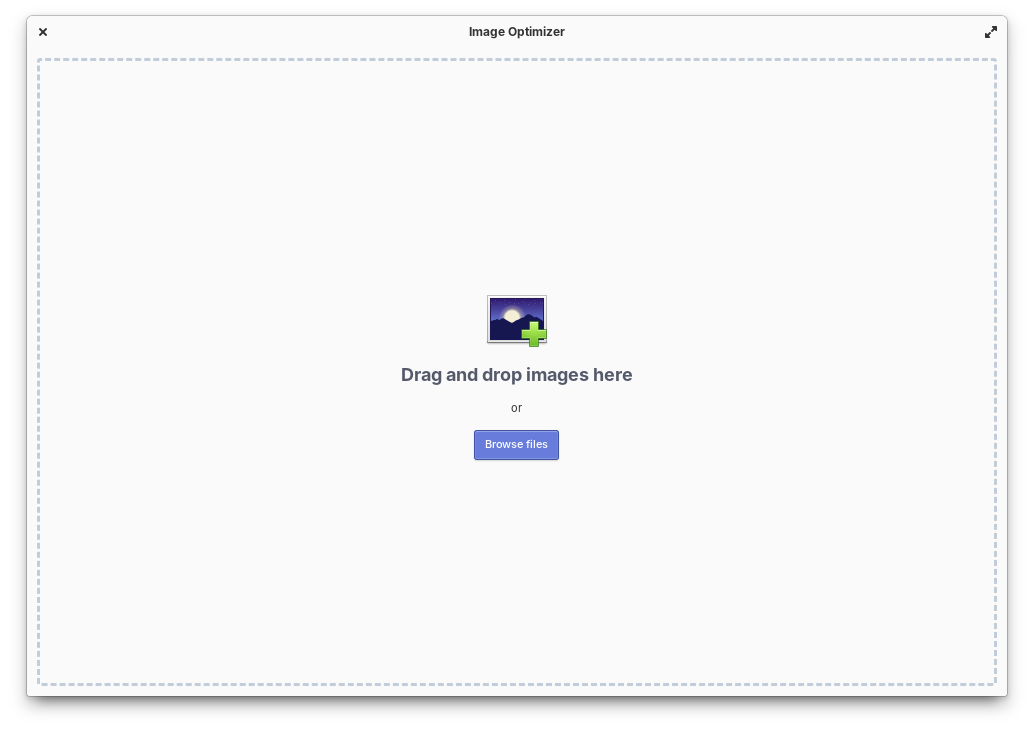
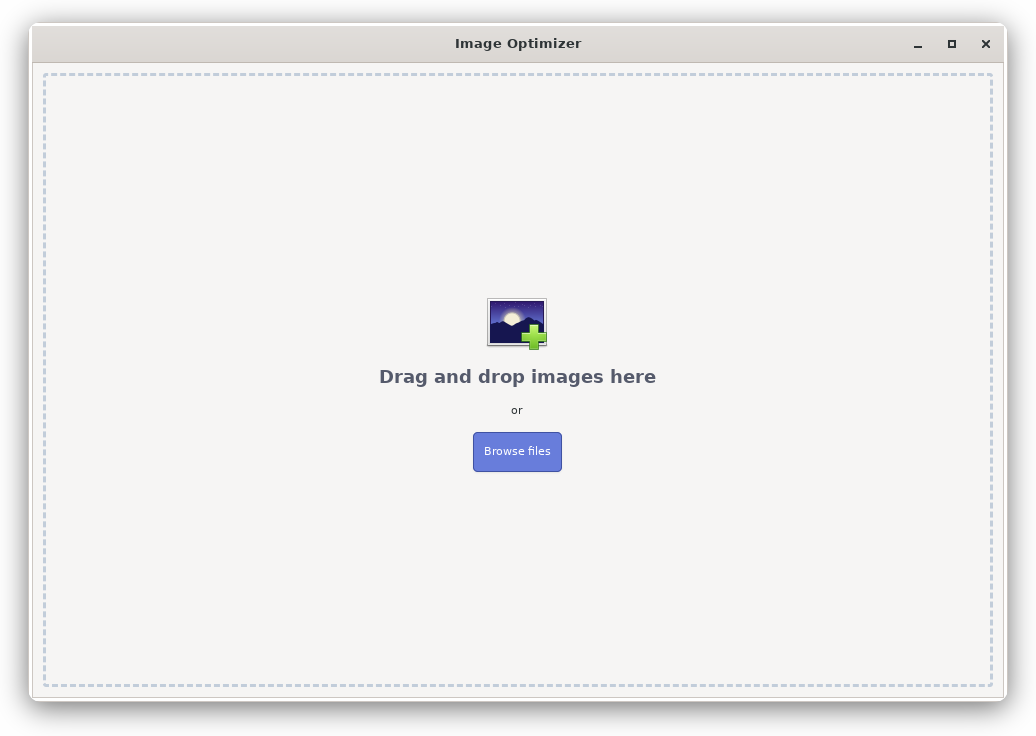
Improved app listings for flathub / snapcraft

Changed region(s): [[0.0, 0.0, 0.9903, 1.0], [0.3714, 0.4062, 0.6499, 0.5312], [0.4333, 0.5625, 0.5571, 0.6562]]

diff --git a/README.md b/README.md
@@ -2,9 +2,33 @@
 
 [![Build Status](https://github.com/GijsGoudzwaard/Image-Optimizer/actions/workflows/pipelines.yml/badge.svg?branch=master)](https://github.com/GijsGoudzwaard/Image-Optimizer/actions/workflows/pipelines.yml) [![Support on Ko-fi](https://img.shields.io/badge/Ko--fi-Support%20this%20project-FF5E5B?logo=ko-fi&logoColor=white)](https://ko-fi.com/imageoptimizer)
 
-Simple lossless image optimizer built with Vala and GTK.
+Shrink PNG and JPEG files losslessly. The pixels come out identical, only the
+file gets smaller. Runs on any Linux distribution through Flathub or the Snap
+Store.
 
 ![Screenshot](data/screenshots/welcome-screen.png)
+
+## Install
+
+**Flathub**, for any distribution:
+
+    flatpak install flathub com.github.gijsgoudzwaard.image-optimizer
+
+<a href="https://flathub.org/apps/details/com.github.gijsgoudzwaard.image-optimizer" target="_blank"><img src="https://flathub.org/assets/badges/flathub-badge-i-en.svg" width="160px" alt="Get it from Flathub"></a>
+
+**Snap Store**, for Ubuntu and anywhere else snaps run:
+
+    sudo snap install image-optimizer
+
+[![Get it from the Snap Store](https://snapcraft.io/static/images/badges/en/snap-store-black.svg)](https://snapcraft.io/image-optimizer)
+
+**elementary OS AppCenter**. Note that this channel may lag behind the releases
+above.
+
+[![Get it on AppCenter](https://appcenter.elementary.io/badge.svg)](https://appcenter.elementary.io/com.github.gijsgoudzwaard.image-optimizer)
+
+Both the Flathub and Snap builds are published for amd64 and arm64, and both
+bundle the two optimizers, so there is nothing else to install.
 
 ## Supported formats
 
@@ -39,27 +63,6 @@ Two details worth knowing:
   wide-gamut image render as sRGB afterwards.
 - Modification times are preserved, so optimizing a folder does not reshuffle a
   photo library sorted by date.
-
-## Get it from the elementary OS AppCenter!
-Image Optimizer is primarily available from the AppCenter of elementary OS. Download it from there!
-
-[![Get it on AppCenter](https://appcenter.elementary.io/badge.svg)](https://appcenter.elementary.io/com.github.gijsgoudzwaard.image-optimizer)
-
-## Get it from Flathub!
-You can get Image Optimizer from Flathub no matter what distribution you're using. Download it or follow the instructions to install it from here!
-
-<a href="https://flathub.org/apps/details/com.github.gijsgoudzwaard.image-optimizer" target="_blank"><img src="https://flathub.org/assets/badges/flathub-badge-i-en.svg" width="160px" alt="Get it from Flathub!"></a>
-
-## Get it from the Snap Store!
-
-On Ubuntu and anywhere else snaps run, Image Optimizer is one command away:
-
-    sudo snap install image-optimizer
-
-[![Get it from the Snap Store](https://snapcraft.io/static/images/badges/en/snap-store-black.svg)](https://snapcraft.io/image-optimizer)
-
-Builds are published for amd64 and arm64, which between them cover almost
-every install the store reports.
 
 ## Dependencies
 
@@ -135,6 +138,6 @@ its development with a one-off or recurring donation:
 
 [![Support on Ko-fi](https://img.shields.io/badge/Ko--fi-Support%20this%20project-FF5E5B?logo=ko-fi&logoColor=white)](https://ko-fi.com/imageoptimizer)
 
-Contributions are just as welcome — bug reports, translations and pull requests
+Contributions are just as welcome. Bug reports, translations and pull requests
 all help. See the [issue tracker](https://github.com/GijsGoudzwaard/Image-Optimizer/issues)
 to get started.
